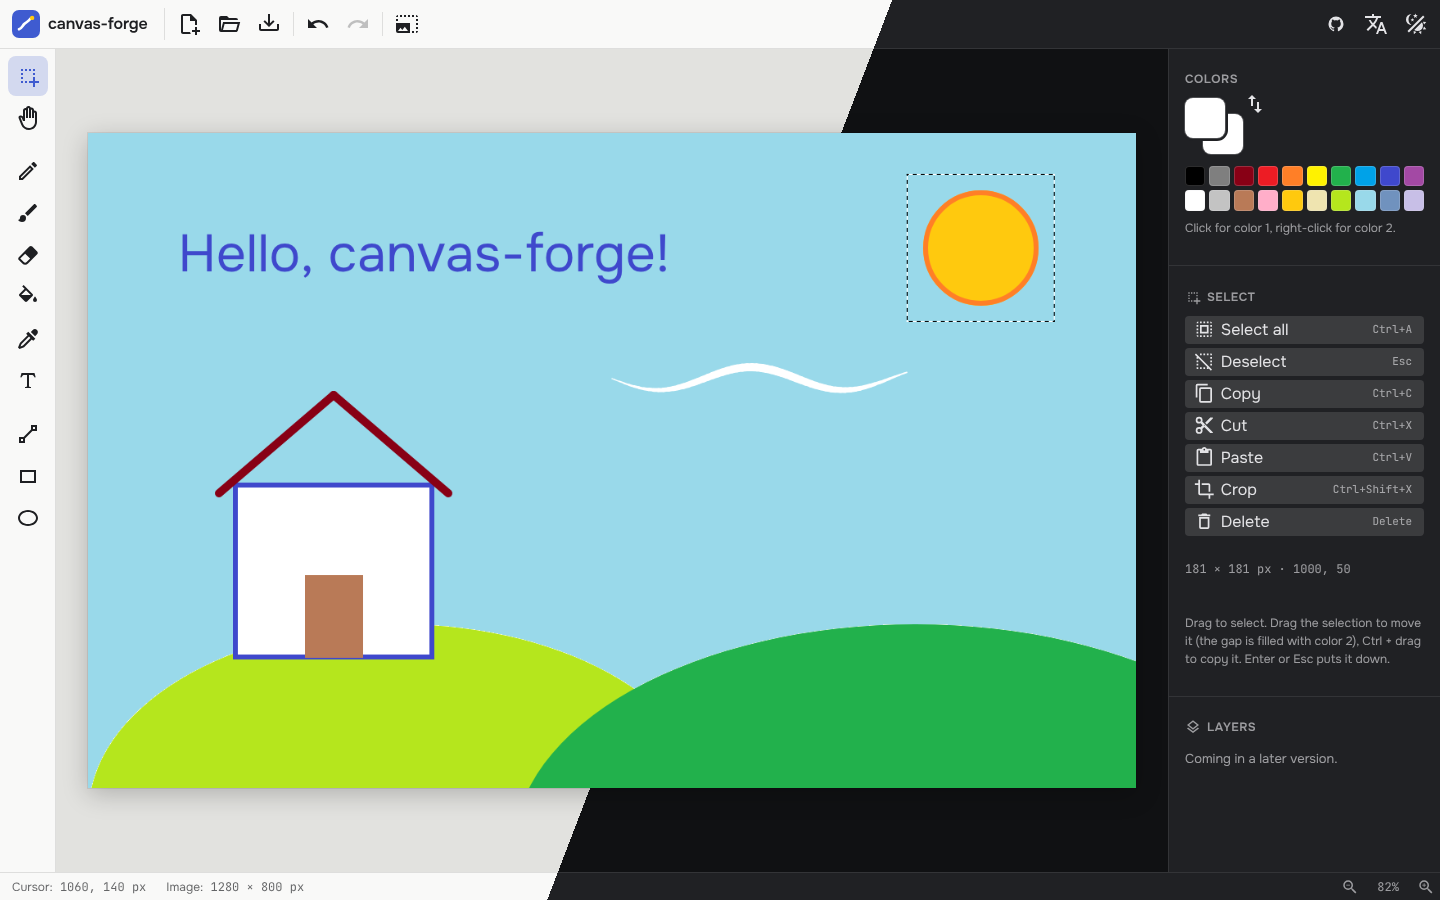
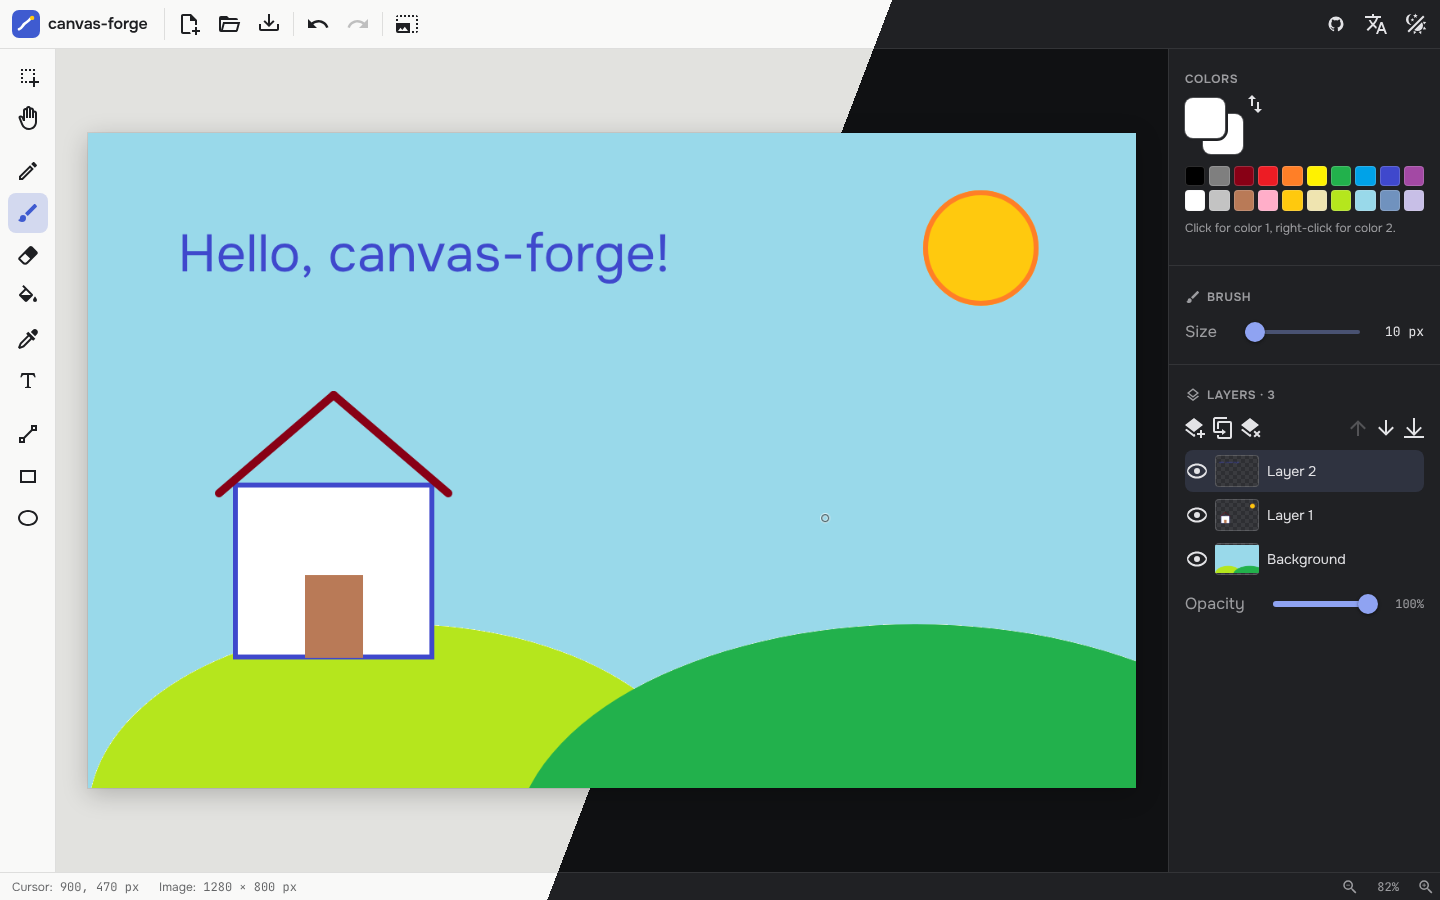
docs: update README for layers
Features, the eraser on layers, privacy note on autosaved layers, tests,
project structure, roadmap (stage 7 done) and a screenshot with the
layers panel.

diff --git a/README.ru.md b/README.ru.md
@@ -12,7 +12,7 @@
 
 ![canvas-forge в светлой и тёмной темах](docs/screenshots/overview.png)
 
-> **В разработке.** Работают все одиннадцать инструментов, а ещё выделение и буфер обмена, масштаб, размер изображения, файлы и отмена любых действий. Слои и работа офлайн появятся на следующих этапах [плана](#план).
+> **В разработке.** Работают все одиннадцать инструментов, а ещё выделение и буфер обмена, масштаб, размер изображения, файлы и отмена любых действий. Слои тоже готовы. Работа офлайн и установка как приложения остаются последним этапом [плана](#план).
 
 ## Возможности
 
@@ -20,7 +20,7 @@
 
 - Карандаш: жёсткие квадратные пиксели без сглаживания, подходит для пиксель-арта
 - Кисть: круглая и сглаженная, линия строится кривыми, поэтому быстрые штрихи получаются без углов; толщина зависит от нажима пера
-- Ластик: рисует цветом 2, как в Paint
+- Ластик: на фоновом слое рисует цветом 2, как в Paint, а на слоях выше стирает до прозрачности
 - Линия, прямоугольник и эллипс с живым предпросмотром; с Shift получаются линии под 45°, квадраты и круги; фигуры бывают контуром, заливкой или контуром цвета 1 с заливкой цветом 2
 - Заливка с настраиваемым допуском, чтобы закрашивать и сглаженные края
 - Пипетка: клик или ведение по изображению берёт цвет 1, правая кнопка цвет 2, после чего возвращается предыдущий инструмент
@@ -42,6 +42,8 @@
 - Буфер обмена: копирование и вырезание в системный буфер как PNG, поэтому вставляется и в другие программы; вставленный рисунок плавает поверх и его сразу можно двигать; рисунок больше холста увеличивает его, как в Paint
 - Выделить всё, удалить и обрезать по выделению, с клавиатуры или из панели свойств
 - Цвета, активный инструмент и его настройки запоминаются между визитами
+- Слои: до 20, с живыми миниатюрами, видимостью, непрозрачностью, переименованием, порядком, дублированием и объединением с нижним; все инструменты работают с активным слоем, и любое действие со слоями отменяется
+- Отмена для слоёв дешёвая: удаление или перестановка не копируют пиксели, сами объекты слоёв остаются в истории
 - Новое изображение с готовыми размерами (Full HD, квадрат, сторис, A4) на белом, цвете 2 или прозрачном фоне; прозрачность показана шахматкой
 - Сохранение в PNG, JPEG или WebP с настройкой качества и реальным размером файла ещё до скачивания
 - Автосохранение: изображение хранится в браузере и возвращается при следующем визите
@@ -57,13 +59,12 @@
 
 **В планах**
 
-- Слои
 - Работа офлайн и установка как приложения (PWA)
 
 ## Приватность и безопасность
 
 - Всё происходит в браузере: без сервера, аккаунтов, аналитики и cookie.
-- Тема, язык, цвета и настройки инструментов хранятся в `localStorage`, текущее изображение в IndexedDB; и то и другое остаётся на вашем устройстве.
+- Тема, язык, цвета и настройки инструментов хранятся в `localStorage`, текущее изображение (все слои) в IndexedDB; и то и другое остаётся на вашем устройстве.
 - Открытые файлы декодируются локально; SVG растрируется через `<img>`, поэтому скрипты внутри него не выполняются.
 - `v-html` запрещён конфигурацией линтера, поэтому пользовательский контент никогда не вставляется как HTML.
 - Сайт отдаёт строгую CSP: скрипты, шрифты и сетевые запросы разрешены только со своего домена.
@@ -121,6 +122,7 @@ pnpm dev
 - размер изображения: привязка при увеличении и обрезке, связанные пропорции, пределы сторон, чёткое увеличение в целое число раз
 - файлы: что считается изображением, отказ от огромных и чужих файлов до декодирования, уменьшение слишком больших изображений, безопасные имена файлов, размеры на обоих языках
 - выделение: прямоугольники при любом направлении перетаскивания, обрезка по краям, попадание точки, место вставки; проверка настроек, прочитанных из хранилища
+- слои: перестановка, какой слой становится активным после удаления, нумерация имён, непрозрачность, стирание до прозрачности, обновление старых автосохранений
 
 ## Горячие клавиши
 
@@ -164,13 +166,13 @@ pnpm dev
 src/
   components/
     layout/      шапка, панель инструментов, холст, строка состояния, меню темы и языка
-    panels/      панель свойств и её разделы (цвета, настройки инструмента, слои)
+    panels/      панель свойств и её разделы (цвета, настройки инструмента, выделение, слои)
     dialogs/     размер изображения, новое изображение, сохранение
     feedback/    уведомления, подсказка при перетаскивании
   composables/   синхронизация темы и языка, ввод на холсте, колесо, перемещение, щипок, клавиши,
                  открытие, перетаскивание и вставка, автосохранение
   engine/        движок рисования на чистом TypeScript: документ, ввод, история, заливка,
-                 цвета, математика вида, изменение размера
+                 цвета, математика вида, изменение размера, выделение, слои
     tools/       карандаш и ластик (жёсткий квадрат), кисть (круглая, с нажимом), фигуры, текст
   i18n/          настройка vue-i18n и тексты EN/RU
   files/         загрузка и сохранение изображений, хранилище автосохранения
@@ -189,7 +191,7 @@ src/
 4. ~~Масштаб и перемещение, размер холста~~ ✓
 5. ~~Файлы: открытие, вставка, перетаскивание, сохранение в PNG / JPEG / WebP, автосохранение~~ ✓
 6. ~~Выделение: перемещение, копирование, вырезание, вставка, обрезка~~ ✓
-7. Слои
+7. ~~Слои~~ ✓
 8. PWA: офлайн, установка, открытие изображений приложением
 
 ## Автор

diff --git a/README.md b/README.md
@@ -12,7 +12,7 @@ Written from scratch with Vue 3 and TypeScript.
 
 ![canvas-forge in light and dark themes](docs/screenshots/overview.png)
 
-> **Work in progress.** All eleven tools work, along with selection and the clipboard, zoom, image size, files and undo for everything. Layers and offline use arrive in the next stages of the [roadmap](#roadmap).
+> **Work in progress.** All eleven tools work, along with selection and the clipboard, zoom, image size, files and undo for everything. Layers work too. Offline use and installing as an app are the last stage of the [roadmap](#roadmap).
 
 ## Features
 
@@ -20,7 +20,7 @@ Written from scratch with Vue 3 and TypeScript.
 
 - Pencil: hard-edged square pixels with no anti-aliasing, good for pixel art
 - Brush: round and anti-aliased, smoothed with curves so fast strokes have no corners; pen pressure sets the width
-- Eraser: paints with color 2, like in Paint
+- Eraser: paints with color 2 on the background layer, like in Paint, and erases to transparency on the layers above
 - Line, rectangle and ellipse with a live preview; Shift gives 45° lines, squares and circles; shapes come as an outline, filled, or outlined with color 1 and filled with color 2
 - Flood fill with adjustable tolerance, so fills reach into anti-aliased edges
 - Color picker: click or drag to take color 1, right-click for color 2, then the previous tool comes back
@@ -42,6 +42,8 @@ Written from scratch with Vue 3 and TypeScript.
 - Clipboard: copy and cut to the system clipboard as PNG, so it pastes into other apps; pasted pictures float on top, ready to move; a picture larger than the canvas grows it, like in Paint
 - Select all, delete, and crop to the selection, from the keyboard or the properties panel
 - Colors, the active tool and its options are remembered between visits
+- Layers: up to 20, with live thumbnails, visibility, opacity, renaming, reordering, duplicating and merging down; every tool works on the active layer and every layer action can be undone
+- Undo for layers is cheap: deleting or reordering stores no pixels, the layer objects themselves stay in history
 - New image with size presets (Full HD, square, story, A4) on a white, color 2 or transparent background; transparency is shown as a checkerboard
 - Save as PNG, JPEG or WebP with a quality setting and the real file size shown before you download
 - Autosave: the image is kept in the browser and comes back on the next visit
@@ -57,13 +59,12 @@ Written from scratch with Vue 3 and TypeScript.
 
 **Planned**
 
-- Layers
 - Offline support and install as an app (PWA)
 
 ## Privacy and security
 
 - Everything happens in the browser: no server, no accounts, no analytics, no cookies.
-- Theme, language, colors and tool settings are kept in `localStorage`, the current image in IndexedDB; both stay on your device.
+- Theme, language, colors and tool settings are kept in `localStorage`, the current image (every layer) in IndexedDB; both stay on your device.
 - Opened files are decoded locally; SVG files are rasterised through `<img>`, so scripts inside them never run.
 - `v-html` is forbidden by the lint config, so user content is never injected as raw HTML.
 - The deployed site sends a strict CSP: scripts, fonts and connections are limited to its own origin.
@@ -121,6 +122,7 @@ Unit tests run with Vitest in Node and on every push in GitHub Actions. The draw
 - image size: anchors when growing or cropping, linked proportions, side limits, crisp whole-number scaling
 - files: which files count as images, refusing huge or foreign files before decoding, scaling down oversized images, safe file names, sizes in each language
 - selection: rectangles in every drag direction, clipping, hit testing, where pastes land; checks for settings read back from storage
+- layers: reordering, which layer becomes active after a delete, numbered names, opacity, erasing to transparency, upgrading older autosaves
 
 ## Keyboard shortcuts
 
@@ -164,13 +166,13 @@ On macOS use `Cmd` instead of `Ctrl`. Tools:
 src/
   components/
     layout/      header, tool rail, canvas area, status bar, theme and language menus
-    panels/      properties panel and its sections (colors, tool options, layers)
+    panels/      properties panel and its sections (colors, tool options, selection, layers)
     dialogs/     image size, new image, save
     feedback/    notifications, drop overlay
   composables/   theme and language sync, canvas input, wheel, panning, pinch, shortcuts,
                  opening, drop and paste, autosave
   engine/        drawing engine in plain TypeScript: document, input, history, flood fill,
-                 colors, view math, resizing
+                 colors, view math, resizing, selection, layers
     tools/       pencil and eraser (hard square), brush (round, pressure), shapes, text
   i18n/          vue-i18n setup and EN/RU messages
   files/         loading and saving images, autosave storage
@@ -189,7 +191,7 @@ src/
 4. ~~Zoom and pan, canvas size~~ ✓
 5. ~~Files: open, paste, drag and drop, save as PNG / JPEG / WebP, autosave~~ ✓
 6. ~~Selection: move, copy, cut, paste, crop~~ ✓
-7. Layers
+7. ~~Layers~~ ✓
 8. PWA: offline, install, open images with the app
 
 ## Author
